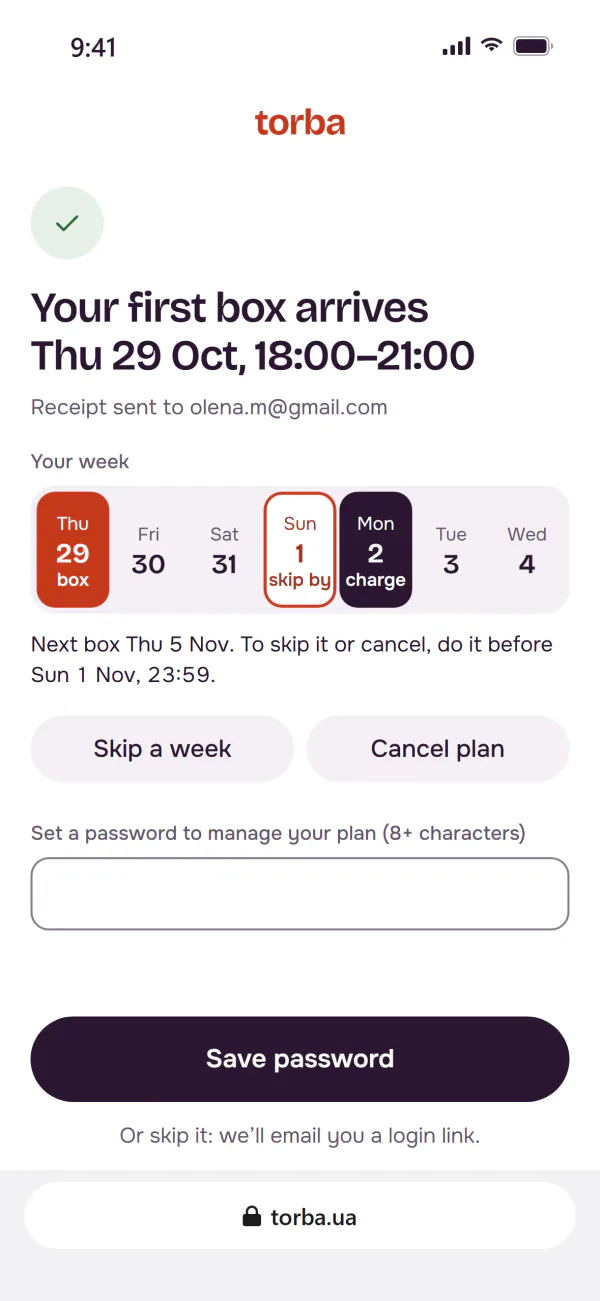
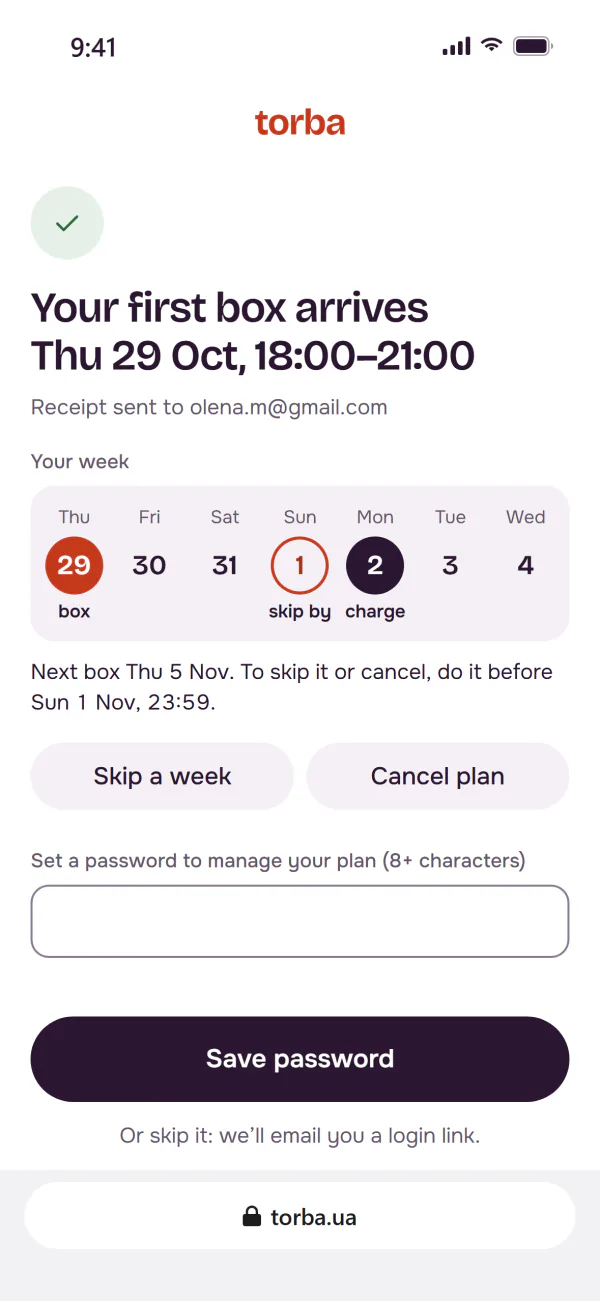
Torba: calmer week strip, only the date is marked
Filled tiles touched and the labels ran edge to edge. Now the strip is a
plain calendar row: the date sits in a circle (filled for the box and the
charge, outlined for the skip deadline) with the word under it.

diff --git a/torba-meal-kit-checkout.html b/torba-meal-kit-checkout.html
@@ -76,7 +76,7 @@
 <div class="media reveal"><figure class="fig"><img src="img/torba-meal-kit-checkout/10-before-after.webp" alt="The old payment step with renewal terms in small grey text next to the new one with the next charge and skip deadline above the button" width="2048" height="1380" loading="lazy" decoding="async"><figcaption>The same order, without the surprise at the end</figcaption></figure></div>
 <h2 class="reveal">The week strip: when you get it, when you pay</h2>
 <p class="reveal">The one memorable element is the week strip: seven days on one row. On the delivery step it picks the day. After payment it shows the week ahead: the box on Thursday, the last day to skip on Sunday, the charge on Monday. Each state has a word, not just a colour. Everything around it stays quiet: white, aubergine ink, one tomato colour for actions. Bricolage Grotesque sets headings and prices; Onest sets the rest. Every text pair passes WCAG&nbsp;AA, checked by a script.</p>
-<div class="media reveal"><figure class="fig"><img src="img/torba-meal-kit-checkout/11-design-system.webp" alt="Design system: seven colours with contrast ratios, the two typefaces, a segmented control, price blocks, buttons and the week strip after paying" width="2048" height="1160" loading="lazy" decoding="async"><figcaption>One tomato action, four week-strip states</figcaption></figure></div>
+<div class="media reveal"><figure class="fig"><img src="img/torba-meal-kit-checkout/11-design-system.webp" alt="Design system: seven colours with contrast ratios, the two typefaces, a segmented control, price blocks, buttons and the week strip with marked dates" width="2048" height="1160" loading="lazy" decoding="async"><figcaption>One tomato action, four week-strip states</figcaption></figure></div>
 <h2 class="reveal">States and edge cases</h2>
 <div class="gallery gallery--phones reveal" style="--cols:3"><figure class="fig"><span class="phone"><img src="img/torba-meal-kit-checkout/12-out-of-zone.webp" alt="An address in Brovary is outside the delivery zone; the error names the cities served and offers an email when Torba arrives" width="1179" height="2556" loading="lazy" decoding="async"></span><figcaption>Says where we deliver and offers a heads-up</figcaption></figure><figure class="fig"><span class="phone"><img src="img/torba-meal-kit-checkout/13-card-declined.webp" alt="Card declined: nothing was charged, the plan and delivery day are saved, try another card" width="1179" height="2556" loading="lazy" decoding="async"></span><figcaption>Nothing charged, plan and day kept</figcaption></figure><figure class="fig"><span class="phone"><img src="img/torba-meal-kit-checkout/14-skip-a-week.webp" alt="Skip sheet over the confirmation: skipping the 5 November box removes the Monday charge and moves the next one" width="1179" height="2556" loading="lazy" decoding="async"></span><figcaption>Skipping shows which charge disappears</figcaption></figure></div>
 <h2 class="reveal">Result</h2>
